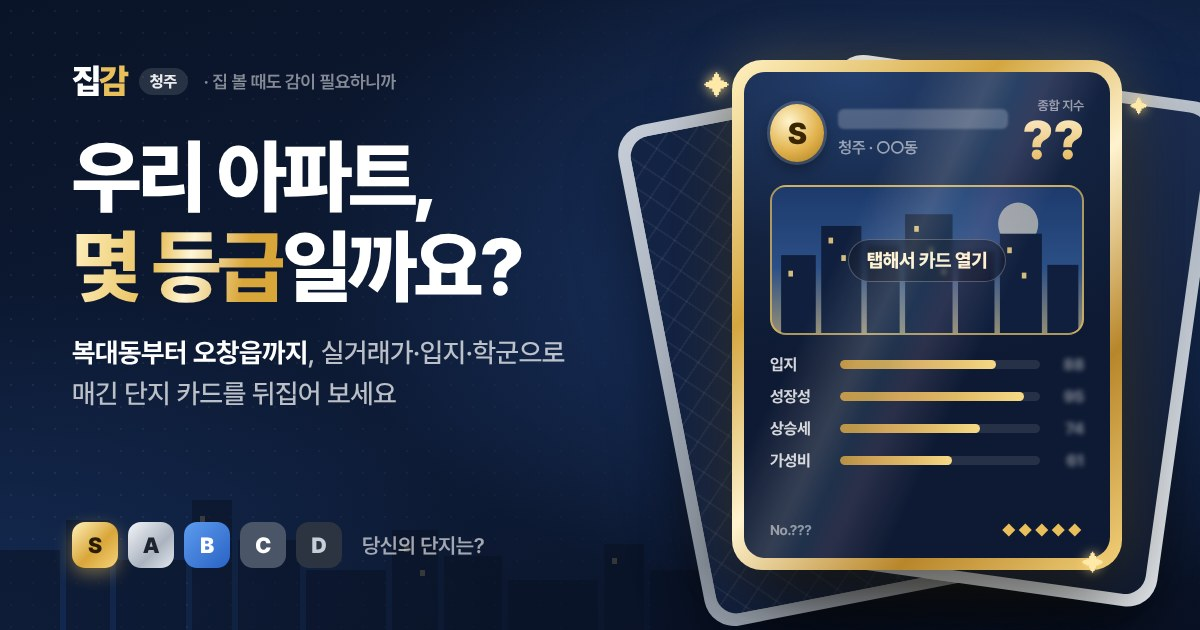
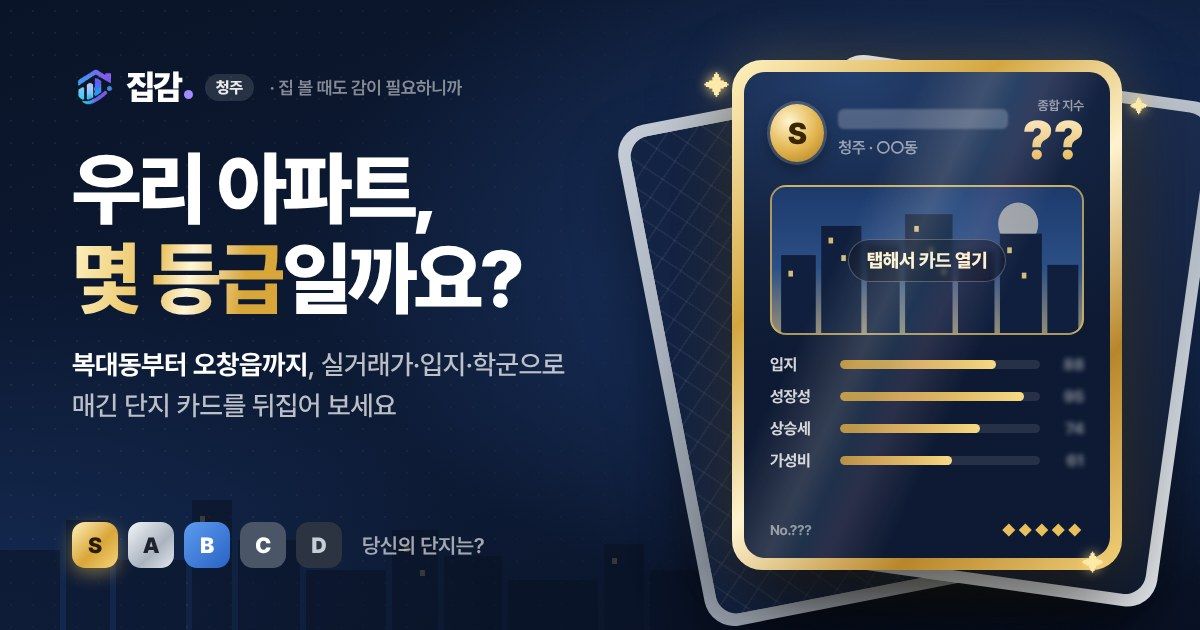
집감 브랜드 에셋 적용: 심볼·워드마크·파비콘·앱 아이콘·미리보기·공유 그림 (#169)
- 브랜드 원본(assets/brand)에서 머리글·바닥글 심볼, 파비콘(48·96), 앱 아이콘(흰 바탕+심볼, 안드로이드용 안전 영역)을 만듦 (scripts/make_icons.py)
- 색 토큰 --brand-ink·sky·blue·violet·grad: 로고·소개 화면 '감'·대표 버튼에만 (차트·등급 색은 그대로)
- 머리글: 심볼 + '집감' + 보라 점, 바닥글: 심볼 로고와 '집 볼 때도 감이 필요하니까'
- 링크 미리보기 4장과 공유 그림 바닥 로고를 심볼로

Claude-Session: https://claude.ai/code/session_01224xo7HRhiVSkvMgKCKEmA

Changed region(s): [[0.0617, 0.2111, 0.4317, 0.5127], [0.0617, 0.5429, 0.4933, 0.6635], [0.0617, 0.0905, 0.4008, 0.181]]

diff --git a/static/style.css b/static/style.css
@@ -7,6 +7,10 @@
   --g-S: #b8912f; --g-A: #8b95a7; --g-B: #2f6fb8; --g-C: #6d7a8c; --g-D: #b9c0ca;
   --g-S-ink: #1a1406; --g-A-ink: #10151d; --g-B-ink: #ffffff; --g-C-ink: #ffffff; --g-D-ink: #1d232c;
   --navy: #13294b; --gold: #c9a24a; --on-navy: #ffffff;
+  /* 브랜드 '집감': 심볼의 하늘 → 파랑 → 보라 그라데이션과 워드마크 남색. 로고·소개·대표 버튼 같은 브랜드 자리에만 씀
+     (차트·등급 색은 위 토큰 그대로) */
+  --brand-ink: #182848; --brand-sky: #3cbaf6; --brand-blue: #3a8cf7; --brand-violet: #7b5cf8;
+  --brand-grad: linear-gradient(135deg, var(--brand-sky), var(--brand-blue) 45%, var(--brand-violet));
   --quad: rgba(42, 120, 214, 0.06);
   --banner: #fff4d6; --banner-text: #6b4e00;
   --shadow: 0 1px 2px rgba(0, 0, 0, 0.04), 0 4px 16px rgba(0, 0, 0, 0.04);
@@ -29,6 +33,7 @@
     --g-S: #d4af52; --g-A: #a9b3c4; --g-B: #4f8fd8; --g-C: #7f8ca0; --g-D: #5b6370;
     --g-S-ink: #1a1406; --g-A-ink: #10151d; --g-B-ink: #ffffff; --g-C-ink: #ffffff; --g-D-ink: #f0efec;
     --navy: #9ec5f4; --gold: #d4af52; --on-navy: #0d1b2e;
+    --brand-ink: #eef0f8; --brand-violet: #9a83ff;
     --quad: rgba(57, 135, 229, 0.10);
     --banner: #3a3012; --banner-text: #f5d98a;
     --shadow: none;
@@ -356,13 +361,20 @@ html:not(.u-py) .unit-seg [data-area-unit="m2"], html.u-py .unit-seg [data-area-
 /* ===================== 단지 카드·상위 등급 연출 ===================== */
 .ic { width: 18px; height: 18px; fill: none; stroke: currentColor; stroke-width: 1.8; stroke-linecap: round; stroke-linejoin: round; flex: none; }
 .brand { display: inline-flex; align-items: center; gap: 10px; letter-spacing: -0.02em; }
-/* 브랜드 '집감' (집 + 감각): 남색 글자에 '감'만 금빛으로 */
-.brand-word { font-size: 21px; font-weight: 900; letter-spacing: -0.06em; color: var(--navy); line-height: 1; }
-.brand-word em { font-style: normal; color: #b8862a; }
+/* 브랜드 '집감' (집 + 감각): 심볼 + 남색 워드마크 + 보라 점 (assets/brand 원본) */
+.brand-sym { width: 30px; height: 30px; flex: none; }
+.brand-word { font-size: 21px; font-weight: 900; letter-spacing: -0.06em; color: var(--brand-ink); line-height: 1; display: inline-flex; align-items: flex-end; }
+.brand-dot { display: inline-block; width: .26em; height: .26em; border-radius: 50%; background: var(--brand-violet); margin: 0 0 .06em .1em; }
+.brand { gap: 8px; }
+.brand .brand-sub { margin-left: 2px; }
+footer .ft-brand { display: flex; align-items: center; gap: 8px; margin: 18px 0 6px; color: var(--muted); }
+footer .ft-brand b { font-size: 16px; font-weight: 900; letter-spacing: -0.05em; color: var(--brand-ink); display: inline-flex; align-items: flex-end; }
+footer .ft-brand span { font-size: 13px; }
+footer .ft-brand b { line-height: 1; }
+footer .ft-brand .brand-dot { margin-bottom: .06em; }
 .brand-sub { font-size: 13px; font-weight: 700; color: var(--text-2); padding: 3px 8px; border-radius: 999px; background: var(--chip); }
-@media (prefers-color-scheme: dark) { .brand-word { color: var(--text); } .brand-word em { color: var(--gold); } }
 body[data-page="intro"] .brand-word { color: #fff; }
-body[data-page="intro"] .brand-word em { color: #e8bf5a; }
+body[data-page="intro"] .brand-dot { background: #a28cff; }
 .hd-end { display: flex; align-items: center; gap: 14px; margin-left: auto; }
 .top-nav a { margin-left: 18px; color: var(--text-2); font-size: 14.5px; font-weight: 500; }
 .top-nav a:hover { color: var(--text); text-decoration: none; }
@@ -2061,6 +2073,8 @@ body[data-page="intro"] footer { border-top-color: var(--border); padding-bottom
 .it-sec h2, .it-final h2 { margin: 0 0 36px; font-size: clamp(30px, 4.6vw, 48px); line-height: 1.2; letter-spacing: -0.04em; font-weight: 850; }
 .it-sec h2 em, .it-hero h1 em { font-style: normal; background: linear-gradient(100deg, #fff1c1 0%, #e8bf5a 45%, #fff6d8 60%, #d9a63a 90%);
   -webkit-background-clip: text; background-clip: text; color: transparent; }
+/* 첫 화면 큰 제목의 '감'은 브랜드 심볼 색 (어두운 바탕용으로 밝게) */
+.it-hero h1 em { background: linear-gradient(110deg, #7fd6fb 0%, #7fa8ff 50%, #b39dff 100%); -webkit-background-clip: text; background-clip: text; }
 .it-sub { margin: 24px 0 0; color: var(--text-2); font-size: 17px; }
 /* 스크롤하면 떠오르기 (app.js 의 data-reveal) */
 .js body[data-page="intro"] [data-reveal] { opacity: 0; transform: translateY(22px); transition: opacity 700ms var(--ease-out), transform 800ms var(--ease-out); }
@@ -2086,7 +2100,7 @@ body[data-page="intro"] footer { border-top-color: var(--border); padding-bottom
   transition: transform var(--t-fast) var(--ease-out), box-shadow var(--t-fast); }
 .it-btn:hover { text-decoration: none; transform: translateY(-1px); }
 .it-btn:active { transform: scale(.98); }
-.it-btn.primary { color: #241703; background: linear-gradient(135deg, #fff0b8, #e1b24c 55%, #f6d47c); box-shadow: 0 10px 30px rgba(227,185,85,.32); }
+.it-btn.primary { color: #fff; background: var(--brand-grad); box-shadow: 0 10px 30px rgba(110, 100, 248, .38); }
 .it-btn.ghost { color: var(--text); border: 1px solid rgba(255,255,255,.22); background: rgba(255,255,255,.04); }
 .it-nums { display: flex; flex-wrap: wrap; gap: 12px 32px; margin: 40px 0 0; }
 .it-nums dt { font-size: 13px; color: var(--muted); font-weight: 600; }

diff --git a/static/sharekit.js b/static/sharekit.js
@@ -13,6 +13,9 @@
   const IOS = /iPhone|iPad|iPod/.test(UA) || (navigator.platform === "MacIntel" && navigator.maxTouchPoints > 1);
   const FONT = '"Pretendard Variable", Pretendard, "Apple SD Gothic Neo", "Noto Sans KR", sans-serif';
   const BASE = location.origin + location.pathname.replace(/[^/]*$/, "") + (window.DJ_ROOT || "");
+  // 브랜드 심볼 (공유 그림 바닥의 로고). 못 받으면 글자만
+  const SYM = new Image();
+  const symReady = new Promise(ok => { SYM.onload = SYM.onerror = () => ok(); SYM.src = BASE + "static/brand/symbol-96.png"; });
   const REGION = document.body.dataset.region || "";
   const W = 1200, H = 630;   // 링크 미리보기 그림 크기 (카카오톡·메신저 공통)
 
@@ -81,10 +84,12 @@
     for (let x = 12; x < W; x += 24) for (let y = 12; y < H; y += 24) ctx.fillRect(x, y, 1.6, 1.6);
     // 브랜드
     ctx.fillStyle = "rgba(255,255,255,.08)"; ctx.fillRect(0, H - 76, W, 1);
-    rr(ctx, 56, H - 56, 34, 34, 9); ctx.fillStyle = grad(ctx, 56, H - 56, 90, H - 22, ["#1d3a6b", "#0f2140"]); ctx.fill();
-    ctx.fillStyle = "#e3b955"; ctx.font = `900 20px ${FONT}`; ctx.textAlign = "center"; ctx.fillText("D", 73, H - 32);
-    ctx.textAlign = "left"; ctx.fillStyle = "rgba(244,246,251,.92)"; ctx.font = `800 24px ${FONT}`;
-    ctx.fillText(`집감 · ${REGION}`, 102, H - 30);
+    if (SYM.naturalWidth) ctx.drawImage(SYM, 52, H - 60, 40, 40);
+    ctx.textAlign = "left"; ctx.fillStyle = "rgba(244,246,251,.95)"; ctx.font = `900 26px ${FONT}`;
+    ctx.fillText("집감", 100, H - 30);
+    const bw = ctx.measureText("집감").width;
+    ctx.fillStyle = "#a28cff"; ctx.beginPath(); ctx.arc(100 + bw + 7, H - 34, 4, 0, Math.PI * 2); ctx.fill();
+    ctx.fillStyle = "rgba(244,246,251,.6)"; ctx.font = `700 20px ${FONT}`; ctx.fillText(REGION, 100 + bw + 20, H - 31);
     ctx.textAlign = "right"; ctx.fillStyle = "rgba(244,246,251,.6)"; ctx.font = `600 20px ${FONT}`;
     ctx.fillText("실거래가·입지로 매긴 S~D 등급 카드", W - 56, H - 31);
     ctx.textAlign = "left";
@@ -296,7 +301,7 @@
     if (KEY) loadKakao();
     // 그림 카드 그리기 → 미리보기 → 카카오 서버에 미리 올려 두기 (누를 때 기다리지 않게)
     const me = cur;
-    me.ready = glyphs(o.title + o.desc + (o.glyphs || "") + REGION + "집감 · 실거래가·입지로 매긴 S~D 등급 카드 임장 코스 단지 비교 함께 보는 기록 노트 곳 개 항목 우세 앞섬 종합 지수 외 둘러보기 약 총 걸어서 차로 역까지 확인 밤 주차 자리 보기 부동산 호가 묻기 관심 사진 장 님의 우리 집 현장에서 적은 체크·메모를 함께 봐요")
+    me.ready = symReady.then(() => glyphs(o.title + o.desc + (o.glyphs || "") + REGION + "집감 · 실거래가·입지로 매긴 S~D 등급 카드 임장 코스 단지 비교 함께 보는 기록 노트 곳 개 항목 우세 앞섬 종합 지수 외 둘러보기 약 총 걸어서 차로 역까지 확인 밤 주차 자리 보기 부동산 호가 묻기 관심 사진 장 님의 우리 집 현장에서 적은 체크·메모를 함께 봐요"))
       .then(() => o.art())
       .then(cv => new Promise(res => cv.toBlob(b => res(b), "image/png")))
       .then(blob => {

diff --git a/templates/base.html b/templates/base.html
@@ -24,7 +24,8 @@
 {% if site.google_site_verification %}<meta name="google-site-verification" content="{{ site.google_site_verification }}">{% endif %}
 {% if demo %}<meta name="robots" content="noindex">{% endif %}
 <script>document.documentElement.classList.add("js");try{if(localStorage.getItem("dj-unit")==="py")document.documentElement.classList.add("u-py")}catch(e){}</script>
-<link rel="icon" href="{{ root }}static/favicon.svg" type="image/svg+xml">
+<link rel="icon" href="{{ root }}static/brand/favicon-48.png" type="image/png" sizes="48x48">
+<link rel="icon" href="{{ root }}static/brand/favicon-96.png" type="image/png" sizes="96x96">
 <link rel="manifest" href="{{ root }}manifest.webmanifest">
 <link rel="apple-touch-icon" href="{{ root }}static/icons/apple-touch-icon.png">
 <meta name="theme-color" content="#0f1b33">
@@ -76,7 +77,7 @@
 </svg>
 <header class="site">
   {# 브랜드 '집감'(집 + 감각) + 지역 버튼 하나. 눌러서 권역별 지역 카드에서 고릅니다 (늘어나도 위쪽은 그대로) #}
-  <a class="brand" href="{{ root }}index.html" aria-label="집감 {{ region }} 첫 화면"><span class="brand-word">집<em>감</em></span>{% if regions | length <= 1 %}<span class="brand-sub">{{ region }}</span>{% endif %}</a>
+  <a class="brand" href="{{ root }}index.html" aria-label="집감 {{ region }} 첫 화면"><img class="brand-sym" src="{{ root }}static/brand/symbol-96.png" width="30" height="30" alt=""><span class="brand-word">집감<i class="brand-dot" aria-hidden="true"></i></span>{% if regions | length <= 1 %}<span class="brand-sub">{{ region }}</span>{% endif %}</a>
   {% if regions | length > 1 %}
   <div class="rg">
     <button type="button" class="rg-btn" data-rg-open aria-haspopup="dialog" aria-expanded="false" aria-controls="rg-pop" aria-label="지역 바꾸기, 지금 {{ region }}">
@@ -167,6 +168,7 @@
 <footer>
   국토교통부 아파트 매매·분양권·전월세 실거래가 기준 ({{ meta.asof }}) · 단지 정보 공동주택관리정보시스템(K-apt) · 공급면적 건축물대장 · 위치 정보 카카오 로컬 ·{% if factors and factors | selectattr("osm_route", "defined") | list %} {{ transit.stop }} © <a href="https://www.openstreetmap.org/copyright">OpenStreetMap</a> 기여자 ·{% endif %}
   광고 없음 · 공개 데이터만 사용 · 지수와 점수는 참고용이며 투자 권유가 아닙니다. · <a href="{{ root }}methodology.html">산출 방법</a> · <a href="{{ root }}intro.html">서비스 소개</a> · <a href="{{ root }}terms.html">이용약관</a>{% if account %} · <a href="{{ root }}privacy.html"><b>개인정보처리방침</b></a>{% endif %}
+  <p class="ft-brand"><img src="{{ root }}static/brand/symbol-96.png" width="22" height="22" alt=""><b>집감<i class="brand-dot" aria-hidden="true"></i></b><span>집 볼 때도 감이 필요하니까</span></p>
   <p class="ft-legal">© 2026 집감. 점수·등급·화면의 무단 복제와 자동 수집을 금지합니다.</p>
 </footer>
 <nav class="tabbar" aria-label="주요 메뉴">

diff --git a/scripts/og/og.html b/scripts/og/og.html
@@ -15,7 +15,8 @@ body { font-family: P, sans-serif; color: #fff; letter-spacing: -0.02em;
 .left { position: absolute; left: 72px; top: 64px; width: 600px; }
 .brand { display: flex; align-items: center; gap: 12px; font-size: 22px; font-weight: 700; color: rgba(255,255,255,.86); }
 .brand .word { font-size: 34px; font-weight: 900; letter-spacing: -0.06em; color: #fff; line-height: 1; }
-.brand .word b { color: #e8bf5a; font-weight: 900; }
+.brand .sym { width: 46px; height: 46px; object-fit: contain; margin-right: -4px; }
+.brand .word b { display: inline-block; width: 9px; height: 9px; border-radius: 50%; background: #a28cff; margin-left: 3px; }
 .brand #brand { font-size: 16px; font-weight: 800; padding: 4px 11px; border-radius: 999px; background: rgba(255,255,255,.12); color: rgba(255,255,255,.9); }
 .brand em { font-style: normal; color: rgba(255,255,255,.5); font-weight: 600; font-size: 18px; margin-left: 4px; }
 h1 { margin-top: 34px; font-size: 80px; line-height: 1.12; font-weight: 850; letter-spacing: -0.045em; }
@@ -83,7 +84,7 @@ h1 .gold { background: linear-gradient(100deg, #fff1c1 0%, #e8bf5a 40%, #fff6d8 
   </g>
 </svg>
 <div class="left">
-  <div class="brand"><span class="word">집<b>감</b></span><span id="brand">서울</span><em>· 집 볼 때도 감이 필요하니까</em></div>
+  <div class="brand"><img class="sym" src="../../assets/brand/jipgam_icon_transparent.png" alt=""><span class="word">집감<b></b></span><span id="brand">서울</span><em>· 집 볼 때도 감이 필요하니까</em></div>
   <h1>우리 아파트,<br><span class="gold">몇 등급</span>일까요?</h1>
   <p class="sub" id="sub"><b>강남구부터 노원구까지</b>, 실거래가·입지·학군으로<br>매긴 단지 카드를 뒤집어 보세요</p>
 </div>

diff --git a/scripts/make_icons.py b/scripts/make_icons.py
@@ -1,50 +1,34 @@
-"""앱 아이콘(홈 화면에 추가)을 '집감' 글자 로고로 그립니다: 남색 바탕에 '집'은 흰색, '감'은 금색.
-글꼴은 Pretendard(굵게)를 씁니다. 이 폴더에 PretendardVariable.ttf 를 두고 한 번 돌려 static/icons/ 에 넣어 두면 됩니다:
-python scripts/make_icons.py"""
+"""앱 아이콘·파비콘·머리글 심볼을 브랜드 원본(assets/brand/jipgam_icon_transparent.png)으로 만듭니다.
+홈 화면 아이콘은 흰 바탕에 심볼, 안드로이드용(maskable)은 잘려도 되게 안쪽에 더 작게.
+한 번 돌려 static/ 에 넣어 두면 됩니다: python scripts/make_icons.py"""
 from pathlib import Path
-from PIL import Image, ImageDraw, ImageFont
+from PIL import Image
 
-HERE = Path(__file__).resolve().parent
-OUT = HERE.parent / "static" / "icons"
-NAVY, WHITE, GOLD = (19, 41, 75), (255, 255, 255), (232, 191, 90)
-
-
-def font(px: int):
-    f = ImageFont.truetype(str(HERE / "PretendardVariable.ttf"), px)
-    try:
-        f.set_variation_by_axes([900])
-    except Exception:   # 굵기 축이 없는 글꼴
-        pass
-    return f
+ROOT = Path(__file__).resolve().parent.parent
+SRC = ROOT / "assets" / "brand" / "jipgam_icon_transparent.png"
+WHITE = (255, 255, 255, 255)
 
 
-def draw(size: int, maskable: bool) -> Image.Image:
-    s = 4   # 크게 그린 뒤 줄여 가장자리를 매끈하게
-    big = size * s
-    img = Image.new("RGBA", (big, big), (0, 0, 0, 0))
-    d = ImageDraw.Draw(img)
-    if maskable:   # 안드로이드가 원·둥근 사각으로 자르므로 꽉 채우고 글자는 안쪽에
-        d.rectangle([0, 0, big, big], fill=NAVY)
-        px = int(big * 0.27)
-    else:
-        d.rounded_rectangle([0, 0, big - 1, big - 1], radius=big * 0.22, fill=NAVY)
-        px = int(big * 0.34)
-    f = font(px)
-    w1, w2 = d.textlength("집", font=f), d.textlength("감", font=f)
-    gap = -px * 0.06
-    x = (big - (w1 + w2 + gap)) / 2
-    top, bottom = f.getbbox("집감")[1], f.getbbox("집감")[3]
-    y = (big - (bottom - top)) / 2 - top
-    d.text((x, y), "집", font=f, fill=WHITE)
-    d.text((x + w1 + gap, y), "감", font=f, fill=GOLD)
-    return img.resize((size, size), Image.LANCZOS)
+def fit(img: Image.Image, size: int, pad: float = 0.0, bg=None) -> Image.Image:
+    s = int(size * (1 - 2 * pad))
+    im = img.copy()
+    im.thumbnail((s, s), Image.LANCZOS)
+    out = Image.new("RGBA", (size, size), bg or (0, 0, 0, 0))
+    out.paste(im, ((size - im.width) // 2, (size - im.height) // 2), im)
+    return out
 
 
 if __name__ == "__main__":
-    OUT.mkdir(parents=True, exist_ok=True)
-    draw(192, False).save(OUT / "icon-192.png")
-    draw(512, False).save(OUT / "icon-512.png")
-    draw(512, True).save(OUT / "icon-maskable-512.png")
-    draw(180, True).convert("RGB").save(OUT / "apple-touch-icon.png")   # 아이폰은 투명 없이 꽉 채운 그림
-    draw(64, False).save(OUT / "favicon-64.png")
-    print("icons ->", OUT)
+    sym = Image.open(SRC).convert("RGBA")
+    sym = sym.crop(sym.getbbox())
+    icons, brand = ROOT / "static" / "icons", ROOT / "static" / "brand"
+    icons.mkdir(parents=True, exist_ok=True)
+    brand.mkdir(parents=True, exist_ok=True)
+    fit(sym, 192, 0.14, WHITE).save(icons / "icon-192.png")
+    fit(sym, 512, 0.14, WHITE).save(icons / "icon-512.png")
+    fit(sym, 512, 0.20, WHITE).save(icons / "icon-maskable-512.png")
+    fit(sym, 180, 0.14, WHITE).convert("RGB").save(icons / "apple-touch-icon.png")   # 아이폰은 투명 없이 꽉 채운 그림
+    fit(sym, 96).save(brand / "symbol-96.png", optimize=True)                        # 머리글·바닥글 (30px 의 3배)
+    for n in (48, 96):
+        fit(sym, n, 0.04).save(brand / f"favicon-{n}.png", optimize=True)
+    print("icons ->", icons, brand)

diff --git a/tests/test_demo_build.py b/tests/test_demo_build.py
@@ -51,7 +51,7 @@ def test_share_tags_and_sitemap(tmp_path):
     assert f'<meta property="og:url" content="{base}apt/DEMO-0001.html">' in page
     assert f'<meta property="og:image" content="{base}static/og/daejeon.jpg">' in page
     assert 'property="og:title" content="데모단지 01 · 지수' in page
-    assert (out / "static" / "og" / "daejeon.jpg").exists() and (out / "static" / "favicon.svg").exists()
+    assert (out / "static" / "og" / "daejeon.jpg").exists() and (out / "static" / "brand" / "favicon-48.png").exists()
     sitemap = (out / "sitemap.xml").read_text(encoding="utf-8")
     assert sitemap.count("<url>") == 63 + 8  # 단지 비교, 조건으로 찾기, 관심 단지, 카드첩, 역세권, 랭킹, 테마, 인트로 and f"<loc>{base}apt/DEMO-0001.html</loc>" in sitemap
     assert f"Sitemap: {base}sitemap.xml" in (out / "robots.txt").read_text(encoding="utf-8")
@@ -137,7 +137,7 @@ def test_sejong_demo_uses_dong_groups_and_brt(tmp_path):
     assert ">세종<svg" in index and "동별 비교" in index and "구별" not in index
     assert 'data-gu="데모' in index  # 구 대신 동으로 거르기
     # 지역 고르기: 위쪽은 버튼 하나, 창 안에 권역별 지역 카드 (지금 지역 표시)
-    assert 'class="rg-btn"' in index and 'class="brand-word">집<em>감</em>' in index
+    assert 'class="rg-btn"' in index and 'class="brand-word">집감<i class="brand-dot"' in index
     assert '<p class="rg-grp" data-rg-grp>충청권</p>' in index and 'data-rg-name="세종" aria-current="page"' in index
     assert 'data-rg-name="대전"' in index
     stations = (out / "stations.html").read_text(encoding="utf-8")
